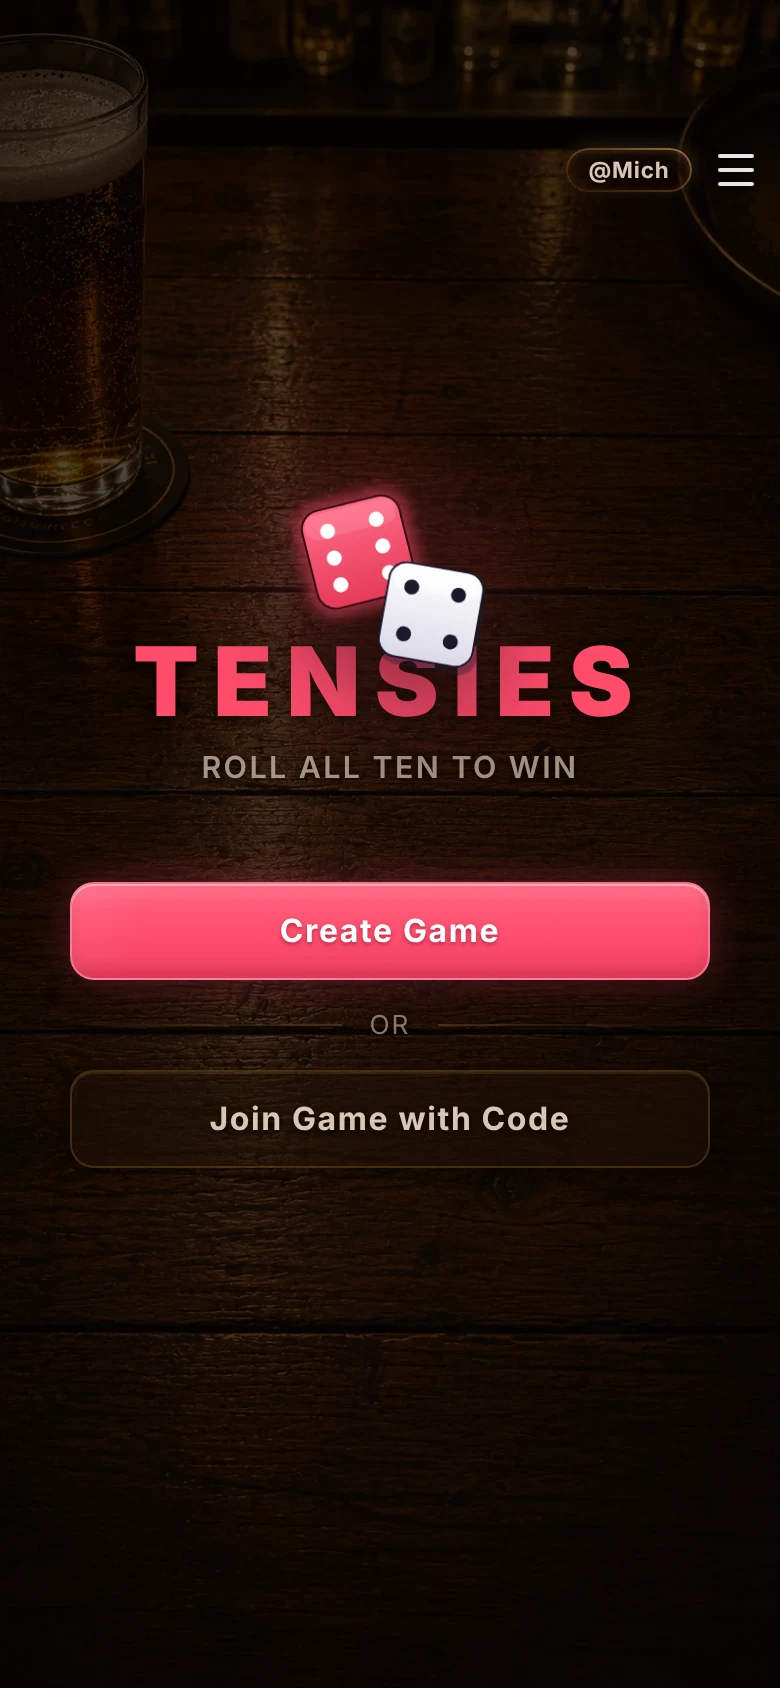
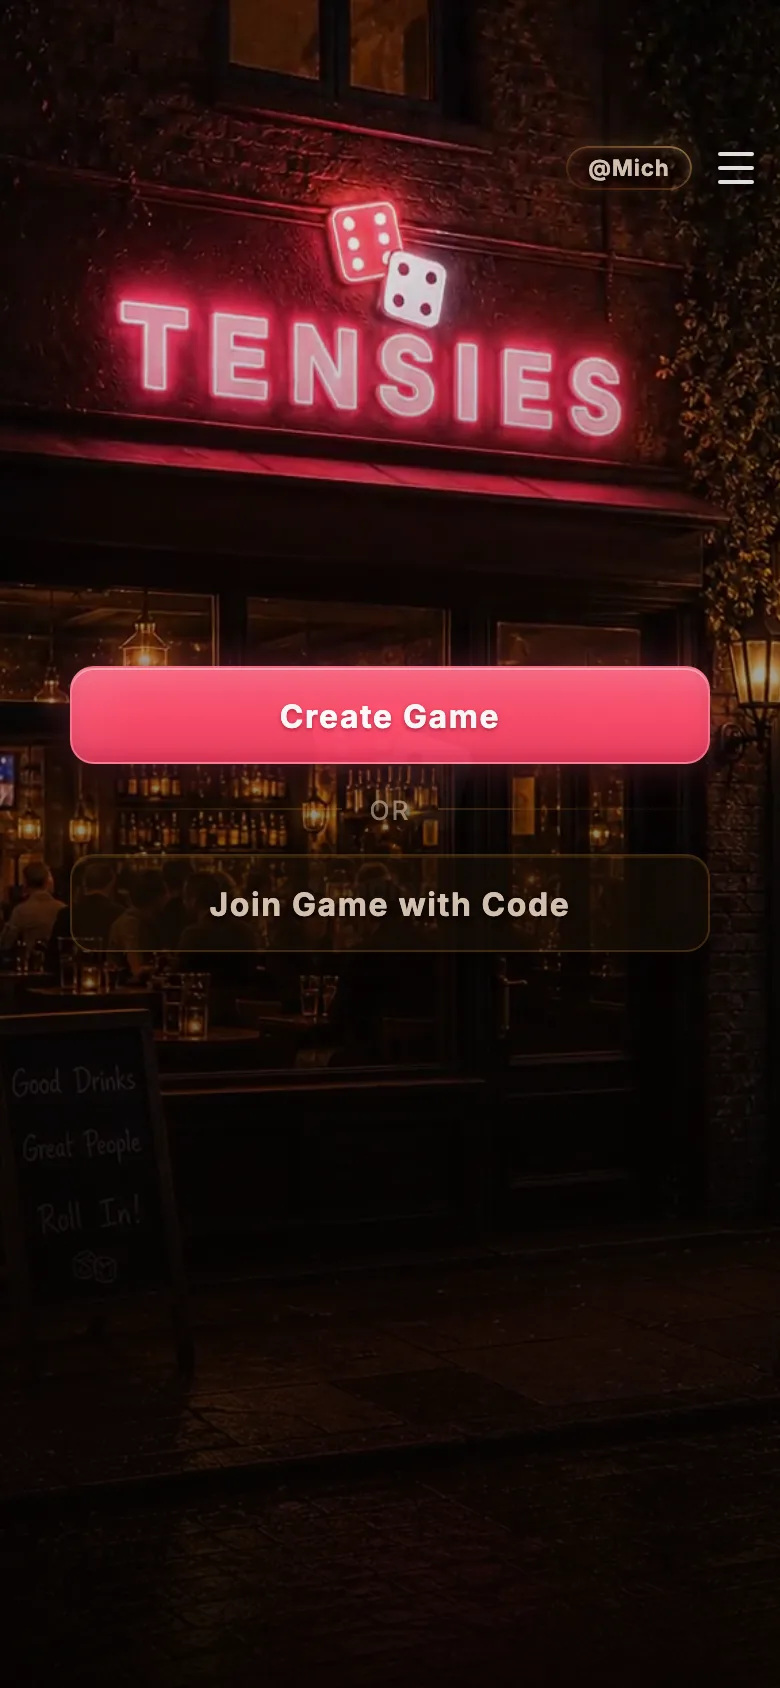
Refresh the a2hs mockup landing screenshot (@Mich) + cache-bust it
Recapture landing-mich.webp against the current landing design (exterior neon
scene, signed in as @Mich, video frozen to a lit midpoint frame) at the original
780×1688. Header rendered with the iOS top safe-area inset (~59px) so the
username/menu clears the phone mockup's status bar, matching the previous shot.

Bump the asset reference to ?v=2 in a2hs.css. Static images carry no
Cache-Control, so browsers heuristic-cache them (~10% of the file's age) and
never revalidate — returning clients kept the stale screenshot. The version query
forces a fresh fetch. (A broader fix is Cache-Control on /static; deferred.)

diff --git a/static/css/a2hs.css b/static/css/a2hs.css
@@ -314,7 +314,7 @@
     gap: 5px;
     background:
       linear-gradient(rgba(6, 3, 1, 0.5), rgba(6, 3, 1, 0.68)),
-      #0d0805 url('/static/images/landing-mich.webp') center top / cover no-repeat;
+      #0d0805 url('/static/images/landing-mich.webp?v=2') center top / cover no-repeat;
   }
 
   .a2hs-canvas-logo { filter: drop-shadow(0 2px 6px rgba(0, 0, 0, 0.6)); }
@@ -332,7 +332,7 @@
   .a2hs-ios-page {
     position: absolute;
     inset: 0;
-    background: #0d0805 url('/static/images/landing-mich.webp') center top / cover no-repeat;
+    background: #0d0805 url('/static/images/landing-mich.webp?v=2') center top / cover no-repeat;
   }
 
   /* Show the same bar-top page behind the share sheet / confirmation, so the
@@ -341,7 +341,7 @@
   .a2hs-phone[data-platform="ios"] [data-scene="3"] {
     background:
       linear-gradient(rgba(6, 3, 1, 0.5), rgba(6, 3, 1, 0.68)),
-      #0d0805 url('/static/images/landing-mich.webp') center top / cover no-repeat;
+      #0d0805 url('/static/images/landing-mich.webp?v=2') center top / cover no-repeat;
   }
 
   .a2hs-ios-bar {
@@ -642,7 +642,7 @@
   .a2hs-phone[data-platform="android"] [data-scene="2"] {
     background:
       linear-gradient(rgba(6, 3, 1, 0.5), rgba(6, 3, 1, 0.68)),
-      #0d0805 url('/static/images/landing-mich.webp') center top / cover no-repeat;
+      #0d0805 url('/static/images/landing-mich.webp?v=2') center top / cover no-repeat;
   }
 
   /* ── Android scene 1: Chrome top bar ── */
